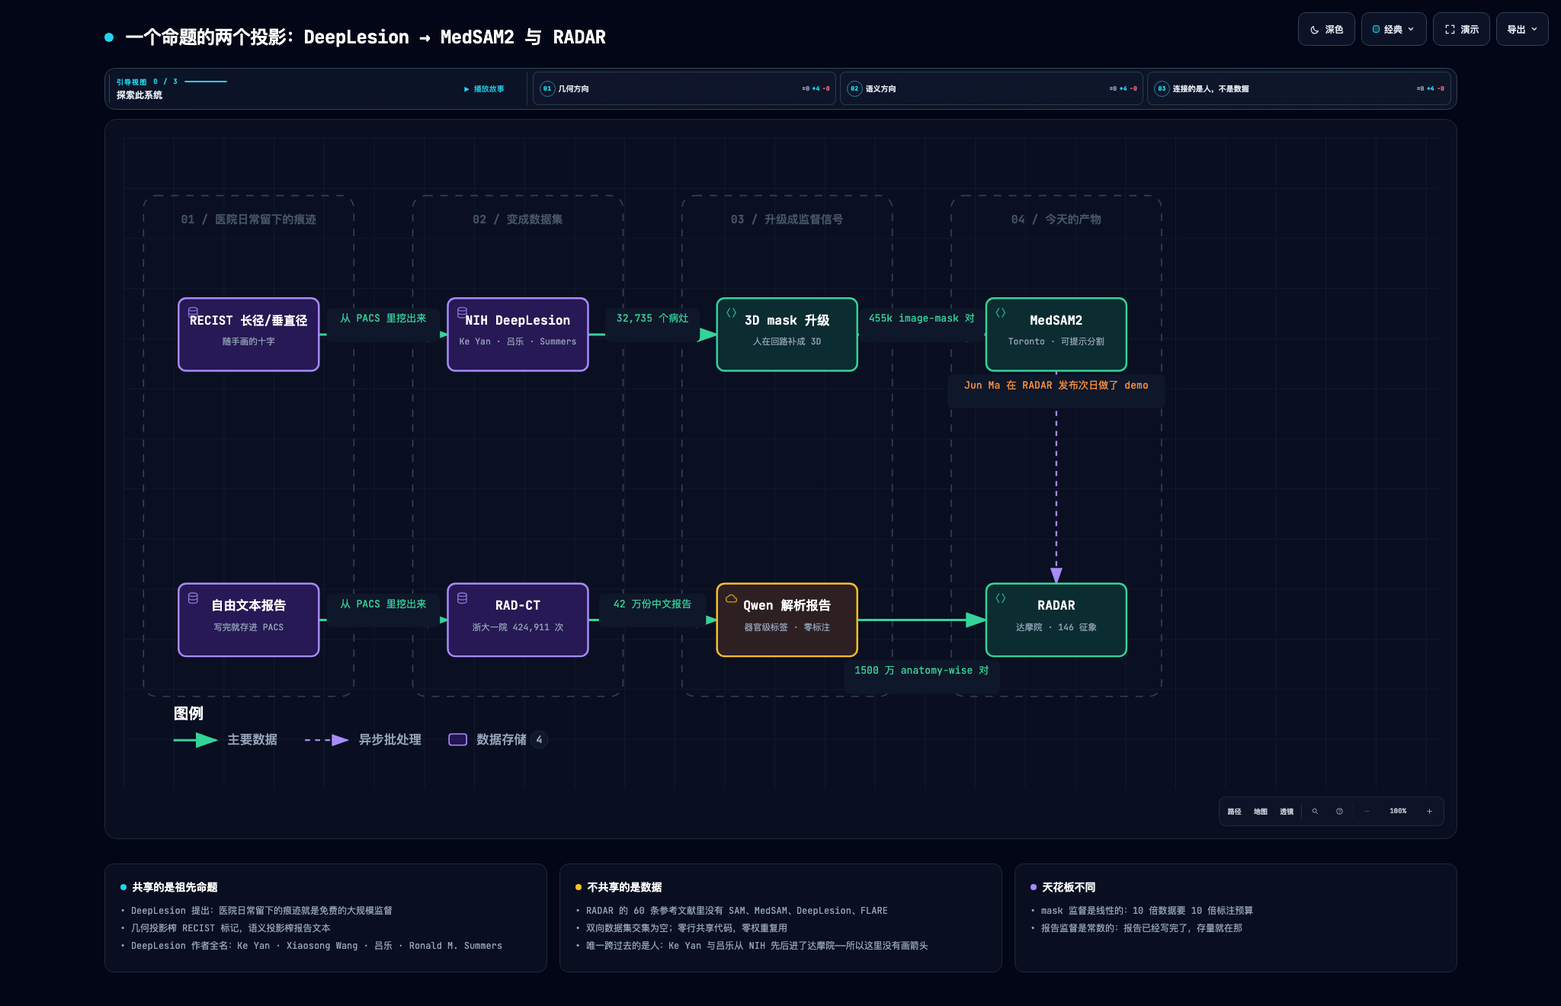
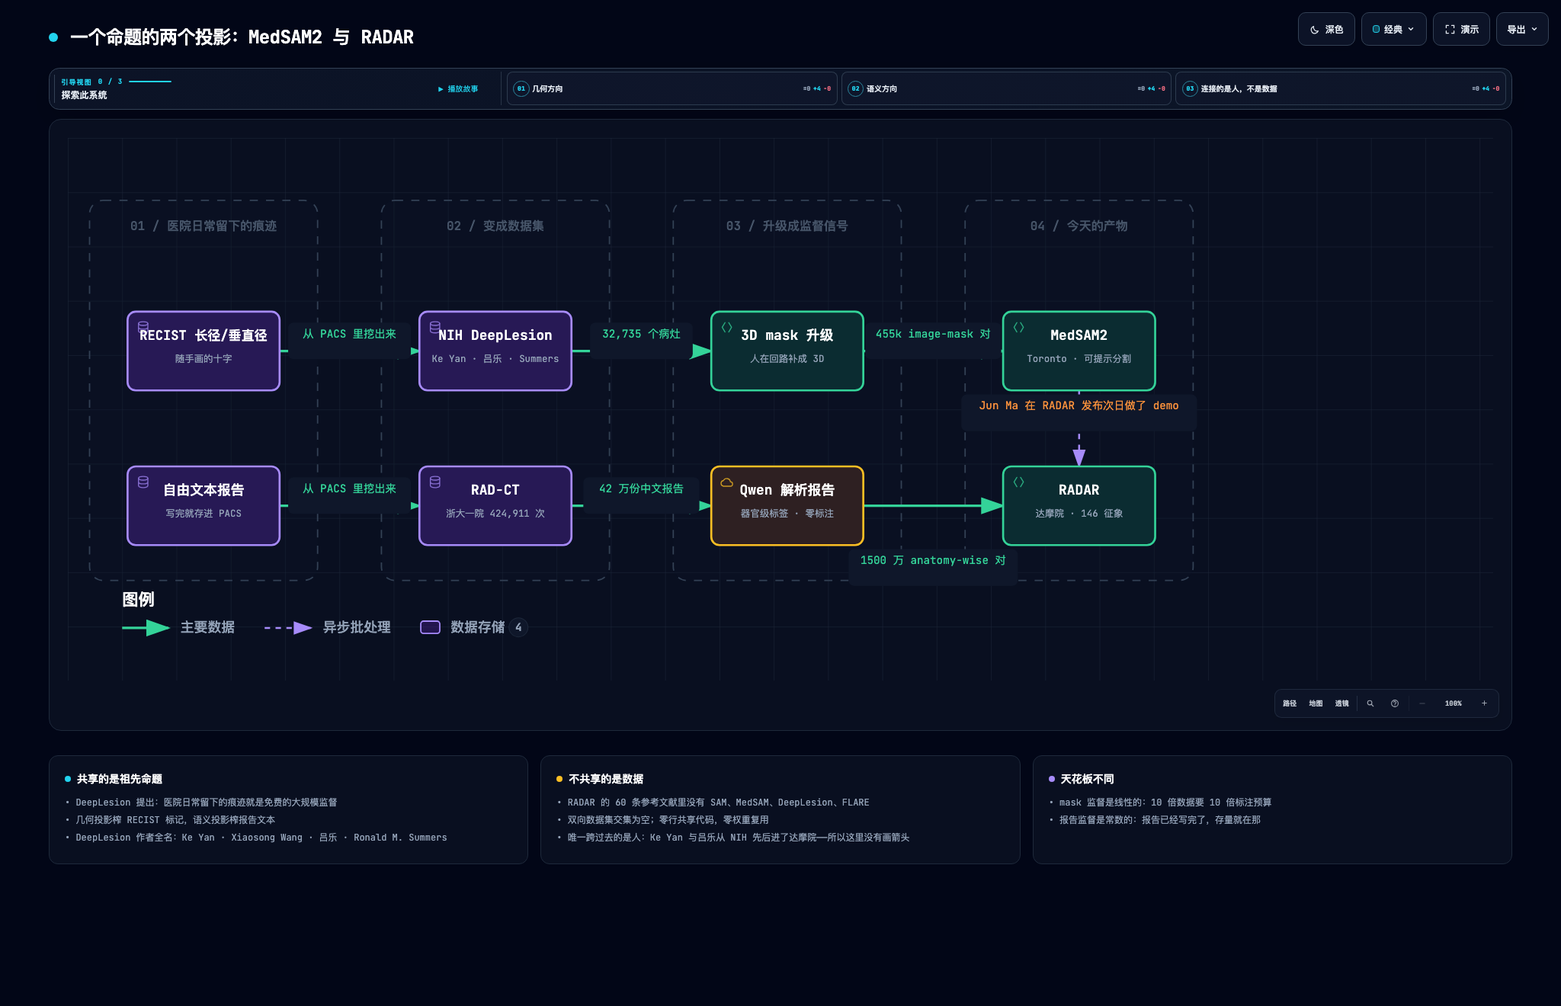
谱系图排版修正：两支相邻、标题单行
我看了 visual-check 存的截图，发现第一版两行之间空了一整条（row 用的 0 和 2）、
底部大片留白，标题在 1440 宽下折成两行。改 row 2->1、viewBox 520->400、标题缩短。

diff --git a/figures/deeplesion-lineage.html b/figures/deeplesion-lineage.html
@@ -4,7 +4,7 @@
   <meta charset="UTF-8">
   <meta name="viewport" content="width=device-width, initial-scale=1.0">
   <meta name="generator" content="archify 2.17.0-dev.1">
-  <title>一个命题的两个投影：DeepLesion → MedSAM2 与 RADAR</title>
+  <title>一个命题的两个投影：MedSAM2 与 RADAR</title>
   <script>
     // Resolve the theme before first paint so light-preference users don't
     // see a dark flash. The toolbar script below re-applies with UI state.
@@ -5081,7 +5081,7 @@ OTHER DEALINGS IN THE FONT SOFTWARE.
            data-preset-badge-blueprint="蓝图 / 修订 01"
            data-preset-badge-editorial="编辑风格 / 现场笔记">
         <div class="pulse-dot"></div>
-        <h1>一个命题的两个投影：DeepLesion → MedSAM2 与 RADAR</h1>
+        <h1>一个命题的两个投影：MedSAM2 与 RADAR</h1>
       </div>
     </div>
 
@@ -5130,8 +5130,8 @@ OTHER DEALINGS IN THE FONT SOFTWARE.
     <!-- Main Diagram -->
     <div class="diagram-container" data-detail-level="read"
          data-preset-badge-editorial-plate="ARCHIFY / 图版 04">
-      <svg viewBox="0 0 1050 520" role="img" lang="zh-CN" aria-labelledby="archify-diagram-title archify-diagram-description" data-preset="classic" data-quality-profile="showcase">
-        <title id="archify-diagram-title">一个命题的两个投影：DeepLesion → MedSAM2 与 RADAR</title>
+      <svg viewBox="0 0 1050 400" role="img" lang="zh-CN" aria-labelledby="archify-diagram-title archify-diagram-description" data-preset="classic" data-quality-profile="showcase">
+        <title id="archify-diagram-title">一个命题的两个投影：MedSAM2 与 RADAR</title>
         <desc id="archify-diagram-description">由 Archify 生成的数据流图。</desc>
         <!-- Definitions -->
         <defs>
@@ -5156,26 +5156,26 @@ OTHER DEALINGS IN THE FONT SOFTWARE.
         <rect width="100%" height="100%" fill="url(#grid)" />
 
         <!-- Data Stages -->
-        <rect data-graph-role="structural-frame" data-composition-frame-kind="stage" data-composition-frame-id="0" x="16" y="46" width="168" height="400" rx="10" class="c-lane" stroke-width="1"/>
+        <rect data-graph-role="structural-frame" data-composition-frame-kind="stage" data-composition-frame-id="0" x="16" y="46" width="168" height="280" rx="10" class="c-lane" stroke-width="1"/>
         <text x="100" y="68" class="t-dim" font-size="9" font-weight="600" text-anchor="middle">01 / 医院日常留下的痕迹</text>
 
-        <rect data-graph-role="structural-frame" data-composition-frame-kind="stage" data-composition-frame-id="1" x="231" y="46" width="168" height="400" rx="10" class="c-lane" stroke-width="1"/>
+        <rect data-graph-role="structural-frame" data-composition-frame-kind="stage" data-composition-frame-id="1" x="231" y="46" width="168" height="280" rx="10" class="c-lane" stroke-width="1"/>
         <text x="315" y="68" class="t-dim" font-size="9" font-weight="600" text-anchor="middle">02 / 变成数据集</text>
 
-        <rect data-graph-role="structural-frame" data-composition-frame-kind="stage" data-composition-frame-id="2" x="446" y="46" width="168" height="400" rx="10" class="c-lane" stroke-width="1"/>
+        <rect data-graph-role="structural-frame" data-composition-frame-kind="stage" data-composition-frame-id="2" x="446" y="46" width="168" height="280" rx="10" class="c-lane" stroke-width="1"/>
         <text x="530" y="68" class="t-dim" font-size="9" font-weight="600" text-anchor="middle">03 / 升级成监督信号</text>
 
-        <rect data-graph-role="structural-frame" data-composition-frame-kind="stage" data-composition-frame-id="3" x="661" y="46" width="168" height="400" rx="10" class="c-lane" stroke-width="1"/>
+        <rect data-graph-role="structural-frame" data-composition-frame-kind="stage" data-composition-frame-id="3" x="661" y="46" width="168" height="280" rx="10" class="c-lane" stroke-width="1"/>
         <text x="745" y="68" class="t-dim" font-size="9" font-weight="600" text-anchor="middle">04 / 今天的产物</text>
 
         <!-- Flow paths -->
         <path data-edge-from="recist" data-edge-to="deeplesion" data-edge-label="从 PACS 里挖出来" data-edge-key="0" data-edge-id="recist-mined" data-composition-points="156,157;259,157" d="M 156 157 L 259 157" class="a-emphasis" stroke-width="1.8" marker-end="url(#arrowhead-emphasis)"/>
-        <path data-edge-from="reports" data-edge-to="radct" data-edge-label="从 PACS 里挖出来" data-edge-key="1" data-edge-id="reports-mined" data-composition-points="156,385;259,385" d="M 156 385 L 259 385" class="a-emphasis" stroke-width="1.8" marker-end="url(#arrowhead-emphasis)"/>
+        <path data-edge-from="reports" data-edge-to="radct" data-edge-label="从 PACS 里挖出来" data-edge-key="1" data-edge-id="reports-mined" data-composition-points="156,271;259,271" d="M 156 271 L 259 271" class="a-emphasis" stroke-width="1.8" marker-end="url(#arrowhead-emphasis)"/>
         <path data-edge-from="deeplesion" data-edge-to="mask3d" data-edge-label="32,735 个病灶" data-edge-key="2" data-edge-id="to-mask" data-composition-points="371,157;474,157" d="M 371 157 L 474 157" class="a-emphasis" stroke-width="1.8" marker-end="url(#arrowhead-emphasis)"/>
-        <path data-edge-from="radct" data-edge-to="qwen" data-edge-label="42 万份中文报告" data-edge-key="3" data-edge-id="to-qwen" data-composition-points="371,385;474,385" d="M 371 385 L 474 385" class="a-emphasis" stroke-width="1.8" marker-end="url(#arrowhead-emphasis)"/>
+        <path data-edge-from="radct" data-edge-to="qwen" data-edge-label="42 万份中文报告" data-edge-key="3" data-edge-id="to-qwen" data-composition-points="371,271;474,271" d="M 371 271 L 474 271" class="a-emphasis" stroke-width="1.8" marker-end="url(#arrowhead-emphasis)"/>
         <path data-edge-from="mask3d" data-edge-to="medsam2" data-edge-label="455k image-mask 对" data-edge-key="4" data-edge-id="mask-out" data-composition-points="586,157;689,157" d="M 586 157 L 689 157" class="a-emphasis" stroke-width="1.8" marker-end="url(#arrowhead-emphasis)"/>
-        <path data-edge-from="qwen" data-edge-to="radar" data-edge-label="1500 万 anatomy-wise 对" data-edge-key="5" data-edge-id="label-out" data-composition-points="586,385;689,385" d="M 586 385 L 689 385" class="a-emphasis" stroke-width="1.8" marker-end="url(#arrowhead-emphasis)"/>
-        <path data-edge-from="medsam2" data-edge-to="radar" data-edge-label="Jun Ma 在 RADAR 发布次日做了 demo" data-edge-key="6" data-edge-id="junma-demo" data-composition-points="745,186;745,356" d="M 745 186 L 745 356" class="a-dashed" stroke-width="1.4" marker-end="url(#arrowhead-dashed)"/>
+        <path data-edge-from="qwen" data-edge-to="radar" data-edge-label="1500 万 anatomy-wise 对" data-edge-key="5" data-edge-id="label-out" data-composition-points="586,271;689,271" d="M 586 271 L 689 271" class="a-emphasis" stroke-width="1.8" marker-end="url(#arrowhead-emphasis)"/>
+        <path data-edge-from="medsam2" data-edge-to="radar" data-edge-label="Jun Ma 在 RADAR 发布次日做了 demo" data-edge-key="6" data-edge-id="junma-demo" data-composition-points="745,186;745,242" d="M 745 186 L 745 242" class="a-dashed" stroke-width="1.4" marker-end="url(#arrowhead-dashed)"/>
 
         <!-- Nodes -->
         <g id="node-recist" data-node-id="recist" data-node-label="RECIST 长径/垂直径" tabindex="0" role="button" aria-label="聚焦RECIST 长径/垂直径，随手画的十字, 01 / 医院日常留下的痕迹" aria-pressed="false" data-node-kind="database" data-node-sublabel="随手画的十字" data-node-tag="2D 标记" data-node-context="01 / 医院日常留下的痕迹">
@@ -5193,15 +5193,15 @@ OTHER DEALINGS IN THE FONT SOFTWARE.
 
         <g id="node-reports" data-node-id="reports" data-node-label="自由文本报告" tabindex="0" role="button" aria-label="聚焦自由文本报告，写完就存进 PACS, 01 / 医院日常留下的痕迹" aria-pressed="false" data-node-kind="database" data-node-sublabel="写完就存进 PACS" data-node-tag="无坐标" data-node-context="01 / 医院日常留下的痕迹">
           <title>自由文本报告 · 写完就存进 PACS · 01 / 医院日常留下的痕迹 · 无坐标</title>
-          <rect x="44" y="356" width="112" height="58" rx="6" class="c-mask"/>
-          <rect x="44" y="356" width="112" height="58" rx="6" class="c-database" stroke-width="1.5"/>
-          <g aria-hidden="true" data-semantic-sigil="database" class="semantic-sigil s-database" transform="translate(50 362) scale(0.6875)">
+          <rect x="44" y="242" width="112" height="58" rx="6" class="c-mask"/>
+          <rect x="44" y="242" width="112" height="58" rx="6" class="c-database" stroke-width="1.5"/>
+          <g aria-hidden="true" data-semantic-sigil="database" class="semantic-sigil s-database" transform="translate(50 248) scale(0.6875)">
             <ellipse cx="8" cy="4" rx="5" ry="2"/>
             <path d="M3 4v8c0 1.1 2.2 2 5 2s5-.9 5-2V4M3 8c0 1.1 2.2 2 5 2s5-.9 5-2"/>
           </g>
-          <text data-node-label="" data-detail-anchor="" x="100" y="377" class="t-primary" font-size="10" font-weight="600" text-anchor="middle">自由文本报告</text>
-          <text data-detail="context" x="100" y="393" class="t-muted" font-size="7" text-anchor="middle">写完就存进 PACS</text>
-        <text data-detail="fine" x="100" y="403" class="t-database" font-size="7" text-anchor="middle">无坐标</text>
+          <text data-node-label="" data-detail-anchor="" x="100" y="263" class="t-primary" font-size="10" font-weight="600" text-anchor="middle">自由文本报告</text>
+          <text data-detail="context" x="100" y="279" class="t-muted" font-size="7" text-anchor="middle">写完就存进 PACS</text>
+        <text data-detail="fine" x="100" y="289" class="t-database" font-size="7" text-anchor="middle">无坐标</text>
         </g>
 
         <g id="node-deeplesion" data-node-id="deeplesion" data-node-label="NIH DeepLesion" tabindex="0" role="button" aria-label="聚焦NIH DeepLesion，Ke Yan · 吕乐 · Summers, 02 / 变成数据集" aria-pressed="false" data-node-kind="database" data-node-sublabel="Ke Yan · 吕乐 · Summers" data-node-tag="公开 · 32k CT" data-node-context="02 / 变成数据集">
@@ -5219,15 +5219,15 @@ OTHER DEALINGS IN THE FONT SOFTWARE.
 
         <g id="node-radct" data-node-id="radct" data-node-label="RAD-CT" tabindex="0" role="button" aria-label="聚焦RAD-CT，浙大一院 424,911 次, 02 / 变成数据集" aria-pressed="false" data-node-kind="database" data-node-sublabel="浙大一院 424,911 次" data-node-tag="永不公开" data-node-context="02 / 变成数据集">
           <title>RAD-CT · 浙大一院 424,911 次 · 02 / 变成数据集 · 永不公开</title>
-          <rect x="259" y="356" width="112" height="58" rx="6" class="c-mask"/>
-          <rect x="259" y="356" width="112" height="58" rx="6" class="c-database" stroke-width="1.5"/>
-          <g aria-hidden="true" data-semantic-sigil="database" class="semantic-sigil s-database" transform="translate(265 362) scale(0.6875)">
+          <rect x="259" y="242" width="112" height="58" rx="6" class="c-mask"/>
+          <rect x="259" y="242" width="112" height="58" rx="6" class="c-database" stroke-width="1.5"/>
+          <g aria-hidden="true" data-semantic-sigil="database" class="semantic-sigil s-database" transform="translate(265 248) scale(0.6875)">
             <ellipse cx="8" cy="4" rx="5" ry="2"/>
             <path d="M3 4v8c0 1.1 2.2 2 5 2s5-.9 5-2V4M3 8c0 1.1 2.2 2 5 2s5-.9 5-2"/>
           </g>
-          <text data-node-label="" data-detail-anchor="" x="315" y="377" class="t-primary" font-size="10" font-weight="600" text-anchor="middle">RAD-CT</text>
-          <text data-detail="context" x="315" y="393" class="t-muted" font-size="7" text-anchor="middle">浙大一院 424,911 次</text>
-        <text data-detail="fine" x="315" y="403" class="t-database" font-size="7" text-anchor="middle">永不公开</text>
+          <text data-node-label="" data-detail-anchor="" x="315" y="263" class="t-primary" font-size="10" font-weight="600" text-anchor="middle">RAD-CT</text>
+          <text data-detail="context" x="315" y="279" class="t-muted" font-size="7" text-anchor="middle">浙大一院 424,911 次</text>
+        <text data-detail="fine" x="315" y="289" class="t-database" font-size="7" text-anchor="middle">永不公开</text>
         </g>
 
         <g id="node-mask3d" data-node-id="mask3d" data-node-label="3D mask 升级" tabindex="0" role="button" aria-label="聚焦3D mask 升级，人在回路补成 3D, 03 / 升级成监督信号" aria-pressed="false" data-node-kind="backend" data-node-sublabel="人在回路补成 3D" data-node-tag="仍靠人手" data-node-context="03 / 升级成监督信号">
@@ -5244,14 +5244,14 @@ OTHER DEALINGS IN THE FONT SOFTWARE.
 
         <g id="node-qwen" data-node-id="qwen" data-node-label="Qwen 解析报告" tabindex="0" role="button" aria-label="聚焦Qwen 解析报告，器官级标签 · 零标注, 03 / 升级成监督信号" aria-pressed="false" data-node-kind="cloud" data-node-sublabel="器官级标签 · 零标注" data-node-tag="换的是量纲" data-node-context="03 / 升级成监督信号">
           <title>Qwen 解析报告 · 器官级标签 · 零标注 · 03 / 升级成监督信号 · 换的是量纲</title>
-          <rect x="474" y="356" width="112" height="58" rx="6" class="c-mask"/>
-          <rect x="474" y="356" width="112" height="58" rx="6" class="c-cloud" stroke-width="1.5"/>
-          <g aria-hidden="true" data-semantic-sigil="cloud" class="semantic-sigil s-cloud" transform="translate(480 362) scale(0.6875)">
+          <rect x="474" y="242" width="112" height="58" rx="6" class="c-mask"/>
+          <rect x="474" y="242" width="112" height="58" rx="6" class="c-cloud" stroke-width="1.5"/>
+          <g aria-hidden="true" data-semantic-sigil="cloud" class="semantic-sigil s-cloud" transform="translate(480 248) scale(0.6875)">
             <path d="M4.3 12.5h7.3a2.4 2.4 0 0 0 .2-4.8 4 4 0 0 0-7.5-1.3A3.1 3.1 0 0 0 4.3 12.5Z"/>
           </g>
-          <text data-node-label="" data-detail-anchor="" x="530" y="377" class="t-primary" font-size="10" font-weight="600" text-anchor="middle">Qwen 解析报告</text>
-          <text data-detail="context" x="530" y="393" class="t-muted" font-size="7" text-anchor="middle">器官级标签 · 零标注</text>
-        <text data-detail="fine" x="530" y="403" class="t-cloud" font-size="7" text-anchor="middle">换的是量纲</text>
+          <text data-node-label="" data-detail-anchor="" x="530" y="263" class="t-primary" font-size="10" font-weight="600" text-anchor="middle">Qwen 解析报告</text>
+          <text data-detail="context" x="530" y="279" class="t-muted" font-size="7" text-anchor="middle">器官级标签 · 零标注</text>
+        <text data-detail="fine" x="530" y="289" class="t-cloud" font-size="7" text-anchor="middle">换的是量纲</text>
         </g>
 
         <g id="node-medsam2" data-node-id="medsam2" data-node-label="MedSAM2" tabindex="0" role="button" aria-label="聚焦MedSAM2，Toronto · 可提示分割, 04 / 今天的产物" aria-pressed="false" data-node-kind="backend" data-node-sublabel="Toronto · 可提示分割" data-node-tag="代码+权重 Apache-2.0" data-node-context="04 / 今天的产物">
@@ -5268,14 +5268,14 @@ OTHER DEALINGS IN THE FONT SOFTWARE.
 
         <g id="node-radar" data-node-id="radar" data-node-label="RADAR" tabindex="0" role="button" aria-label="聚焦RADAR，达摩院 · 146 征象, 04 / 今天的产物" aria-pressed="false" data-node-kind="backend" data-node-sublabel="达摩院 · 146 征象" data-node-tag="权重 CC BY-NC-SA" data-node-context="04 / 今天的产物">
           <title>RADAR · 达摩院 · 146 征象 · 04 / 今天的产物 · 权重 CC BY-NC-SA</title>
-          <rect x="689" y="356" width="112" height="58" rx="6" class="c-mask"/>
-          <rect x="689" y="356" width="112" height="58" rx="6" class="c-backend" stroke-width="1.5"/>
-          <g aria-hidden="true" data-semantic-sigil="backend" class="semantic-sigil s-backend" transform="translate(695 362) scale(0.6875)">
+          <rect x="689" y="242" width="112" height="58" rx="6" class="c-mask"/>
+          <rect x="689" y="242" width="112" height="58" rx="6" class="c-backend" stroke-width="1.5"/>
+          <g aria-hidden="true" data-semantic-sigil="backend" class="semantic-sigil s-backend" transform="translate(695 248) scale(0.6875)">
             <path d="M6 3 3 8l3 5M10 3l3 5-3 5"/>
           </g>
-          <text data-node-label="" data-detail-anchor="" x="745" y="377" class="t-primary" font-size="10" font-weight="600" text-anchor="middle">RADAR</text>
-          <text data-detail="context" x="745" y="393" class="t-muted" font-size="7" text-anchor="middle">达摩院 · 146 征象</text>
-        <text data-detail="fine" x="745" y="403" class="t-backend" font-size="7" text-anchor="middle">权重 CC BY-NC-SA</text>
+          <text data-node-label="" data-detail-anchor="" x="745" y="263" class="t-primary" font-size="10" font-weight="600" text-anchor="middle">RADAR</text>
+          <text data-detail="context" x="745" y="279" class="t-muted" font-size="7" text-anchor="middle">达摩院 · 146 征象</text>
+        <text data-detail="fine" x="745" y="289" class="t-backend" font-size="7" text-anchor="middle">权重 CC BY-NC-SA</text>
         </g>
 
         <!-- Flow labels -->
@@ -5285,9 +5285,9 @@ OTHER DEALINGS IN THE FONT SOFTWARE.
         <text data-detail="fine" x="207.5" y="158" class="t-dim" font-size="7" text-anchor="middle">几何痕迹</text>
         </g>
         <g data-detail="context" data-edge-from="reports" data-edge-to="radct" data-edge-label="从 PACS 里挖出来" data-edge-key="1" data-edge-id="reports-mined">
-          <rect x="162.3" y="364" width="90.4" height="27" rx="4" class="c-mask"/>
-          <text x="207.5" y="375" class="t-backend" font-size="8" text-anchor="middle">从 PACS 里挖出来</text>
-        <text data-detail="fine" x="207.5" y="386" class="t-dim" font-size="7" text-anchor="middle">语义痕迹</text>
+          <rect x="162.3" y="250" width="90.4" height="27" rx="4" class="c-mask"/>
+          <text x="207.5" y="261" class="t-backend" font-size="8" text-anchor="middle">从 PACS 里挖出来</text>
+        <text data-detail="fine" x="207.5" y="272" class="t-dim" font-size="7" text-anchor="middle">语义痕迹</text>
         </g>
         <g data-detail="context" data-edge-from="deeplesion" data-edge-to="mask3d" data-edge-label="32,735 个病灶" data-edge-key="2" data-edge-id="to-mask">
           <rect x="384.65" y="136" width="75.7" height="27" rx="4" class="c-mask"/>
@@ -5295,9 +5295,9 @@ OTHER DEALINGS IN THE FONT SOFTWARE.
         <text data-detail="fine" x="422.5" y="158" class="t-dim" font-size="7" text-anchor="middle">2D → 3D</text>
         </g>
         <g data-detail="context" data-edge-from="radct" data-edge-to="qwen" data-edge-label="42 万份中文报告" data-edge-key="3" data-edge-id="to-qwen">
-          <rect x="379.75" y="364" width="85.5" height="27" rx="4" class="c-mask"/>
-          <text x="422.5" y="375" class="t-backend" font-size="8" text-anchor="middle">42 万份中文报告</text>
-        <text data-detail="fine" x="422.5" y="386" class="t-dim" font-size="7" text-anchor="middle">文本 → 标签</text>
+          <rect x="379.75" y="250" width="85.5" height="27" rx="4" class="c-mask"/>
+          <text x="422.5" y="261" class="t-backend" font-size="8" text-anchor="middle">42 万份中文报告</text>
+        <text data-detail="fine" x="422.5" y="272" class="t-dim" font-size="7" text-anchor="middle">文本 → 标签</text>
         </g>
         <g data-detail="context" data-edge-from="mask3d" data-edge-to="medsam2" data-edge-label="455k image-mask 对" data-edge-key="4" data-edge-id="mask-out">
           <rect x="587.4" y="136" width="100.2" height="27" rx="4" class="c-mask"/>
@@ -5305,9 +5305,9 @@ OTHER DEALINGS IN THE FONT SOFTWARE.
         <text data-detail="fine" x="637.5" y="158" class="t-dim" font-size="7" text-anchor="middle">像素级精确</text>
         </g>
         <g data-detail="context" data-edge-from="qwen" data-edge-to="radar" data-edge-label="1500 万 anatomy-wise 对" data-edge-key="5" data-edge-id="label-out">
-          <rect x="575.15" y="417" width="124.7" height="27" rx="4" class="c-mask"/>
-          <text x="637.5" y="428" class="t-backend" font-size="8" text-anchor="middle">1500 万 anatomy-wise 对</text>
-        <text data-detail="fine" x="637.5" y="439" class="t-dim" font-size="7" text-anchor="middle">语义级丰富</text>
+          <rect x="575.15" y="303" width="124.7" height="27" rx="4" class="c-mask"/>
+          <text x="637.5" y="314" class="t-backend" font-size="8" text-anchor="middle">1500 万 anatomy-wise 对</text>
+        <text data-detail="fine" x="637.5" y="325" class="t-dim" font-size="7" text-anchor="middle">语义级丰富</text>
         </g>
         <g data-detail="context" data-edge-from="medsam2" data-edge-to="radar" data-edge-label="Jun Ma 在 RADAR 发布次日做了 demo" data-edge-key="6" data-edge-id="junma-demo">
           <rect x="658.15" y="189" width="173.7" height="27" rx="4" class="c-mask"/>
@@ -5317,18 +5317,18 @@ OTHER DEALINGS IN THE FONT SOFTWARE.
 
         <!-- Legend -->
         <g data-legend="" data-legend-bridge="">
-          <text x="40" y="464" class="t-primary" font-size="12" font-weight="650">图例</text>
-          <g data-legend-semantic-kind="emphasis" data-legend-x="40" data-legend-baseline="484" data-legend-width="83">
-            <path d="M 40 481 L 74 481" class="a-emphasis" stroke-width="1.8" marker-end="url(#arrowhead-emphasis)"/>
-            <text x="83" y="484" class="t-muted" font-size="10" font-weight="500">主要数据</text>
+          <text x="40" y="344" class="t-primary" font-size="12" font-weight="650">图例</text>
+          <g data-legend-semantic-kind="emphasis" data-legend-x="40" data-legend-baseline="364" data-legend-width="83">
+            <path d="M 40 361 L 74 361" class="a-emphasis" stroke-width="1.8" marker-end="url(#arrowhead-emphasis)"/>
+            <text x="83" y="364" class="t-muted" font-size="10" font-weight="500">主要数据</text>
           </g>
-          <g data-legend-semantic-kind="dashed" data-legend-x="145" data-legend-baseline="484" data-legend-width="93">
-            <path d="M 145 481 L 179 481" class="a-dashed" stroke-width="1.4" marker-end="url(#arrowhead-dashed)"/>
-            <text x="188" y="484" class="t-muted" font-size="10" font-weight="500">异步批处理</text>
+          <g data-legend-semantic-kind="dashed" data-legend-x="145" data-legend-baseline="364" data-legend-width="93">
+            <path d="M 145 361 L 179 361" class="a-dashed" stroke-width="1.4" marker-end="url(#arrowhead-dashed)"/>
+            <text x="188" y="364" class="t-muted" font-size="10" font-weight="500">异步批处理</text>
           </g>
-          <g data-legend-semantic-kind="database" data-legend-kind="database" data-legend-label="数据存储" data-legend-x="260" data-legend-baseline="484" data-legend-width="83">
-            <rect x="260" y="476" width="14" height="9" rx="2" class="c-database" stroke-width="1"/>
-            <text x="282" y="484" class="t-muted" font-size="10" font-weight="500">数据存储</text>
+          <g data-legend-semantic-kind="database" data-legend-kind="database" data-legend-label="数据存储" data-legend-x="260" data-legend-baseline="364" data-legend-width="83">
+            <rect x="260" y="356" width="14" height="9" rx="2" class="c-database" stroke-width="1"/>
+            <text x="282" y="364" class="t-muted" font-size="10" font-weight="500">数据存储</text>
           </g>
         </g>
       </svg>
